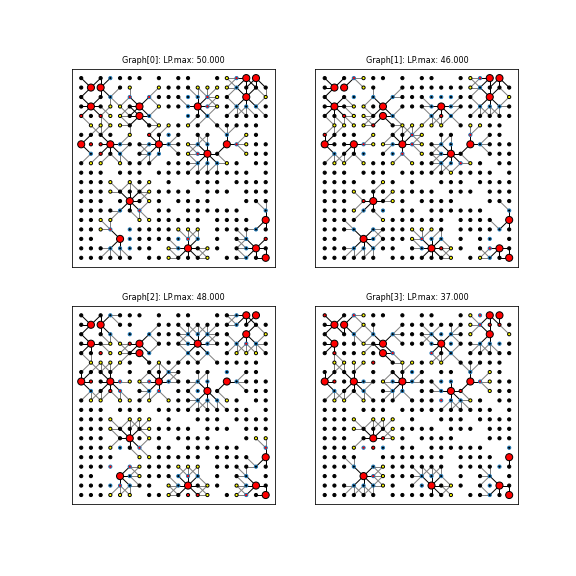
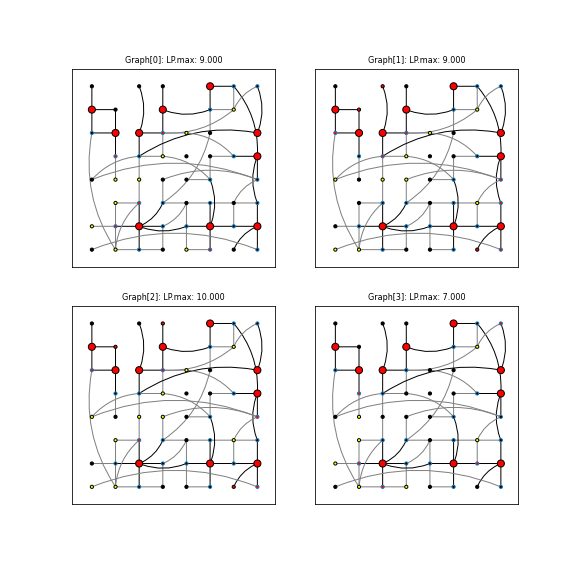
Smallworld setup

diff --git a/notebooks/smallworld/experiment.py b/notebooks/smallworld/experiment.py
@@ -1,0 +1,251 @@
+
+#%%
+from ctrace.simulation import InfectionInfo
+from ctrace.recommender import DegGreedy, Random, SAAAgentGurobi
+from ctrace.drawing import random_init, small_world_grid
+from ctrace import PROJECT_ROOT
+from ctrace.exec.param import GraphParam, SIRParam, FileParam
+from ctrace.exec.parallel import *
+from pathlib import Path, PurePath
+from ctrace.problem import MinExposedSAA, grader
+
+in_schema = [
+    # Graph Structure
+    ("width", int),
+    ("r", float), # Parameter of long ranged decay
+    ("sparsity", float),
+    # SIR
+    ("num_infected", int),
+    # Transmission dynamics
+    ("transmission_rate", float),
+    ("compliance_rate", float),
+    ("structure_rate", float),
+    # Problem constraints,
+    ("budget", int),
+    # Method 
+    ("method", str),
+    ("num_samples", int),
+    # Evaluation
+    ("eval_num_samples", int),
+    ("eval_aggregation_method", str),
+    # Seeding
+    ("seed", int),
+]
+
+main_out_schema = [
+    "id",
+    "saa_objective_value",
+    "grader_objective_value",
+    "greedy_objective_value",
+    "random_objective_value"
+]
+
+main_handler = CsvSchemaWorker("csv_main", main_out_schema, PurePath('main.csv'))
+saa_handler = CsvWorker("csv_saa_vals", PurePath('saa.csv'))
+grader_handler = CsvWorker("csv_grader_vals", PurePath('grader.csv'))
+
+
+def runner(
+    # Support info
+    queues,
+    id,
+    path,
+    width=10,
+    # Graph Structure
+    r=2, # Parameter of long ranged decay
+    sparsity=0.1,
+    # SIR
+    num_infected=5,
+    # Transmission dynamics
+    transmission_rate=0.2,
+    compliance_rate=.9,
+    structure_rate=0,
+    # Problem constraints,
+    budget=50,
+    # Method 
+    method="SAA",
+    num_samples=100,
+    # Evaluation
+    eval_num_samples=100,
+    eval_aggregation_method="max",
+    # Seeding
+    seed=42,
+    **args,
+):
+    # <================ Create Problem Instance ================>
+    G, pos = small_world_grid(
+        width, 
+        max_norm=False, 
+        sparsity=sparsity, 
+        local_range=1, 
+        num_long_range=1, 
+        r=r,
+        seed=seed,
+    )
+
+    SIR = random_init(G, num_infected=num_infected, seed=seed)
+
+    # <================ SAA Agent ================>
+
+    # Group these attributes into problem dataclasses!
+    info = SAAAgentGurobi(
+        G=G,
+        SIR=SIR,
+        budget=budget,
+        num_samples=num_samples,
+        transmission_rate=transmission_rate, 
+        compliance_rate=compliance_rate, 
+        structure_rate=structure_rate, 
+        seed=seed,
+        solver_id="GUROBI",
+    )
+    action = info["action"]
+    problem: MinExposedSAA = info["problem"]
+    saa_objectives = [problem.lp_objective_value(i) for i in range(num_samples)]
+    saa_objective_value = max(saa_objectives)
+    # Evaluation
+    grader_seed = seed + 10000 # arbitary value
+
+    gproblem = grader(
+        G,
+        SIR,
+        budget,
+        transmission_rate,
+        compliance_rate,
+        action,
+        structure_rate=structure_rate,
+        grader_seed=grader_seed,
+        num_samples=eval_num_samples,
+        aggregation_method=eval_aggregation_method,
+        solver_id="GUROBI_LP",
+    )
+    grader_objective_value = gproblem.objective_value
+    grader_objectives = [gproblem.lp_objective_value(i) for i in range(num_samples)]
+    # <================ Compute baselines ================>
+
+    info = InfectionInfo(G, SIR, budget, transmission_rate)
+    greedy_action = DegGreedy(info)
+
+    grader_greedy = grader(
+        G,
+        SIR,
+        budget,
+        transmission_rate,
+        compliance_rate,
+        greedy_action,
+        structure_rate=structure_rate,
+        grader_seed=grader_seed,
+        num_samples=eval_num_samples,
+        aggregation_method=eval_aggregation_method,
+        solver_id="GUROBI_LP",
+    )
+    greedy_objective_value = grader_greedy.objective_value
+
+    random_action = Random(info)
+    grader_random = grader(
+        G,
+        SIR,
+        budget,
+        transmission_rate,
+        compliance_rate,
+        random_action,
+        structure_rate=structure_rate,
+        grader_seed=grader_seed,
+        num_samples=eval_num_samples,
+        aggregation_method=eval_aggregation_method,
+        solver_id="GUROBI_LP",
+    )
+    random_objective_value = grader_random.objective_value
+
+    # <================ Output data to workers and folders ================>
+
+    main_obj = {
+        "id": id,
+        "saa_objective_value": saa_objective_value,
+        "grader_objective_value": grader_objective_value,
+        "greedy_objective_value": greedy_objective_value,
+        "random_objective_value": random_objective_value,
+    }
+    queues["csv_main"].put(main_obj)
+
+    # Store each individual SAA Objective
+    saa_objectives.insert(0, id)
+    queues["csv_saa_vals"].put(saa_objectives)
+
+    # Store each individual SAA Objective
+
+    grader_objectives.insert(0, id)
+    queues["csv_grader_vals"].put(grader_objectives)
+
+    # Save large checkpoint data ("High data usage") 
+    save_extra = id % 50 == 0
+    if save_extra:
+        path = path / "data" / str(id)
+        path.mkdir(parents=True, exist_ok=True)
+        # with open(path / "sir_dump.json", "w") as f:
+        #     json.dump(sir, f)
+        
+        with open(path / "graph.pkl", "wb") as f:
+            pickle.dump(G, f)
+        with open(path / "pos.pkl", "wb") as f:
+            pickle.dump(pos, f)
+        with open(path / "sir.pkl", "wb") as f:
+            pickle.dump(SIR, f)
+
+        # with open(path / "problem.pkl", "wb") as f:
+        #     pickle.dump(problem, f)
+
+        # with open(path / "grader.pkl", "wb") as f:
+        #     pickle.dump(gproblem, f)
+
+def _runner(data):
+    runner(**data)
+
+def post_execution(self):
+    compress=False
+    if (self.output_directory / "data").exists() and compress:
+        print("Compressing files ...")
+        shutil.make_archive(str(self.output_directory / "data"), 'zip', base_dir="data")
+        shutil.rmtree(self.output_directory / "data")
+
+    # TODO: Merge different files
+
+    
+
+run = MultiExecutor(_runner, in_schema, post_execution=post_execution, seed=True)
+
+# Add compact tasks (expand using cartesian)
+mont = GraphParam('montgomery')
+run.add_cartesian({
+    # Graph Structure
+    "width": [50, 80, 100, 200],
+    "r":[1.1, 1.5, 2.0, 3.0, 4.0], # Parameter of long ranged decay
+    "sparsity":[0.1],
+    # SIR
+    "num_infected":[50,100,150,200],
+    # Transmission dynamics
+    "transmission_rate":[0.15],
+    "compliance_rate":[0.9],
+    "structure_rate":[0.0],
+    # Problem constraints,
+    "budget":[100, 200, 300, 400],
+    # Method 
+    "method":["SAA"],
+    "num_samples":[500],
+    # Evaluation
+    "eval_num_samples":[500],
+    "eval_aggregation_method":["max"],
+    # Seeding
+    "seed":[100,200,300,400,500],
+})
+
+
+# main_out_schema = ["mean_objective_value", "max_objective_value", "std_objective_value"]
+
+run.attach(main_handler)
+
+
+run.attach(saa_handler)
+run.attach(grader_handler)
+run.exec()
+# %%

diff --git a/notebooks/zach-cloud/problem_tester.py b/notebooks/zach-cloud/problem_tester.py
@@ -25,17 +25,31 @@ import networkx as nx
 # Create graph (with diagonal connections) to experiment on
 
 seed=42
-G, pos = grid_2d(20, seed=seed)
+G, pos = small_world_grid(8, max_norm=False, sparsity=0.1, local_range=1, num_long_range=1, r=2, seed=42)
+# G, pos = grid_2d(8, seed=42, diagonals=True, sparsity=0.2, global_rate=0)
+# G = nx.scale_free_graph(100)
+# G = nx.generators.navigable_small_world_graph(10, p=1, q=1, r=2, dim=2, seed=None)
+# G = G.to_undirected()
 
-SIR = random_init(G, num_infected=20, seed=seed)
+# mapper = {n : i for i, n in enumerate(G.nodes())}
+# pos = {i:(y ,-x) for i, (x,y) in enumerate(G.nodes())}
+# G = nx.relabel_nodes(G, mapper)
+
+# pos = nx.nx_agraph.graphviz_layout(G, prog="sfdp", args="-Goverlap=false")
+# pos = nx.nx_agraph.graphviz_layout(G, prog="sfdp", args="")
+SIR = random_init(G, num_infected=10, seed=seed)
 budget=50
-transmission_rate=0.8 
+transmission_rate=1
 compliance_rate=0.8
 structure_rate=0
 
 # Create infection state
-# infection_info = InfectionInfo(G, SIR, budget=0, transmission_rate=0)
-draw_single(G, pos=pos, sir=SIR, edges=G.edges, title="Graph Struct")
+# # infection_info = InfectionInfo(G, SIR, budget=0, transmission_rate=0)
+edges = list(G.edges.data("long", default=False))
+# long_edges= list(filter(lambda x: x[2], edges))
+# short_edges= list(filter(lambda x: not x[2], edges))
+draw_single(G, pos=pos, sir=SIR, edges=edges, title="Graph Struct", figsize=(5,5))
+
 
 #%%
 sample_dim = (2, 2)
@@ -187,7 +201,7 @@ def viz_saa(problem: MinExposedSAA):
         args.append({
             "title": f"Graph[{sample_num}]: LP.{problem.aggregation_method}: {z_value:.3f}",
             "pos": pos, 
-            "sir":SIR, 
+            "sir":SIR,
             "quarantined_nodes":action, 
             "non_compliant_nodes": non_compliant_samples, 
             "exposed_nodes": exposed_v2, 
@@ -201,4 +215,10 @@ fig, ax = viz_saa(gproblem_greedy)
 fig, ax = viz_saa(gproblem_minex)
 # %%
 fig.savefig("multi.png")
+# %%
+
+# %%
+
+# %%
+
 # %%
